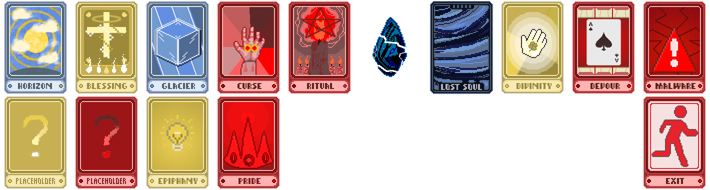
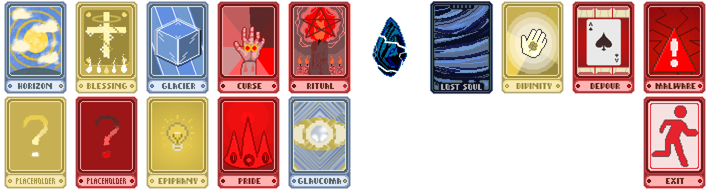
Art & ReadMe Changes

Changed region(s): [[0.4028, 0.5, 0.4958, 1.0]]

diff --git a/README.md b/README.md
@@ -12,32 +12,32 @@ A shitty balatro mod made by a bunch of nerds
 
 Currently adds (Hidden Cards not Included)
 
-    103 Jokers [13 of which are Work in Progress and can be Disabled]
-    -   25 [+4 WIP] Common
-    -   31 [+5 WIP] Uncommon
+    104 Jokers [9 of which are Work in Progress and can be Disabled]
+    -   26 [+3 WIP] Common
+    -   35 [+1 WIP] Uncommon
     -   16 [+4 WIP] Rare
     -   8 [+1 WIP] Legendary
     -   10 Modded Rarity
     
     9 Enhancements
     
-    25 Consumables
+    26 Consumables
     
     -   3 [+1 WIP] Tarots
-    -   3 Spectrals
+    -   4 Spectrals
     -   Rest are custom [9 are Work in Progress]
     
     2 Seals
     
     6 Booster packs
     
-    5 Decks
+    6 Decks
     
     3 Tags
     
     8 Blinds
 
-    1 WIP Voucher
+    1 Voucher
 
 There are currently no unlock requirements implemented
 
@@ -61,3 +61,5 @@ bozo! - Rarely codes & art & music
 Milk - Does basically all the art
 
 Asto - who?
+
+Moist - Pending Artist
